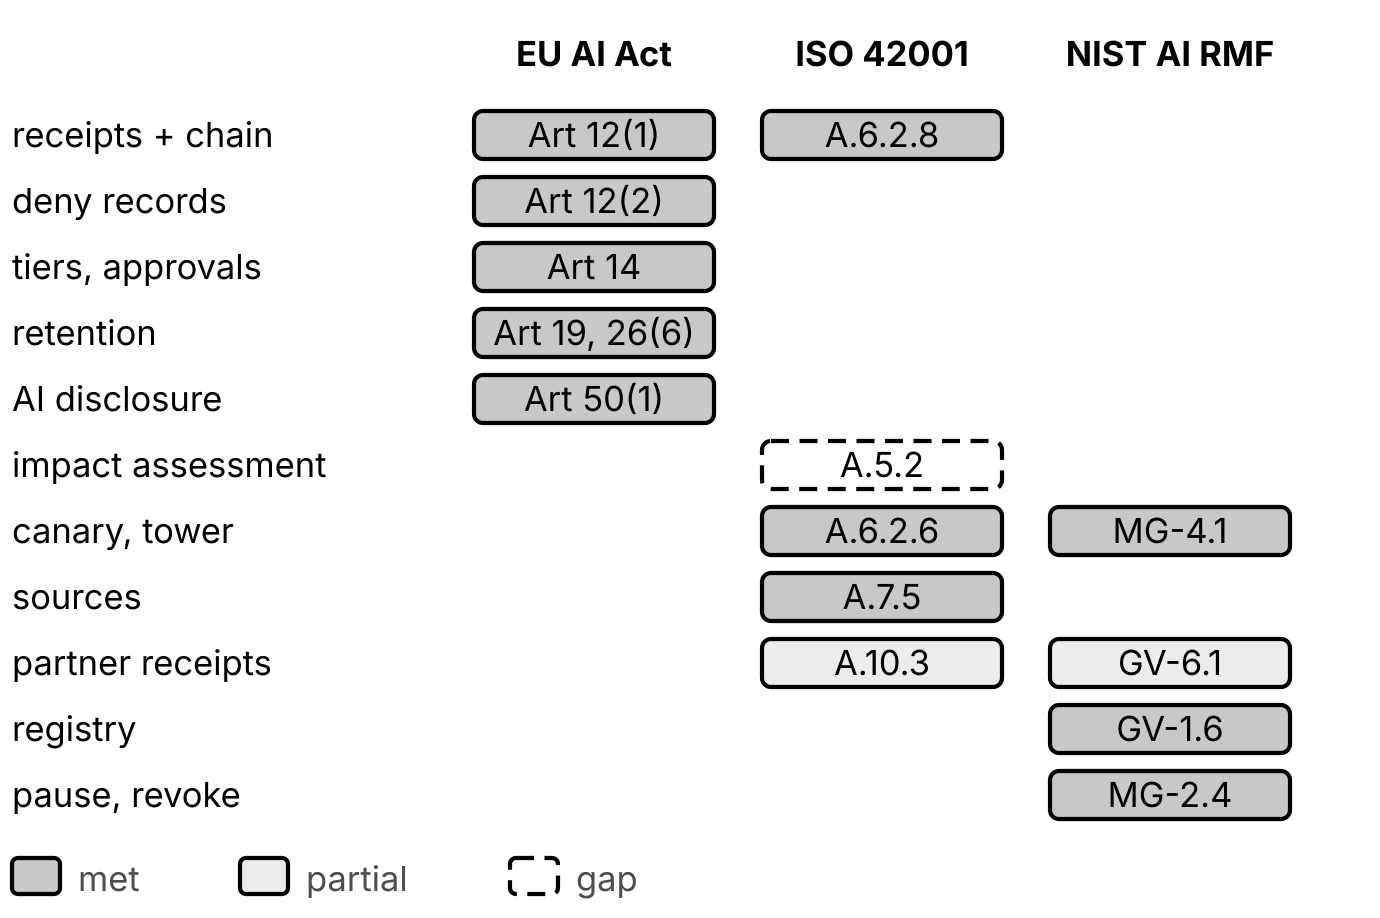
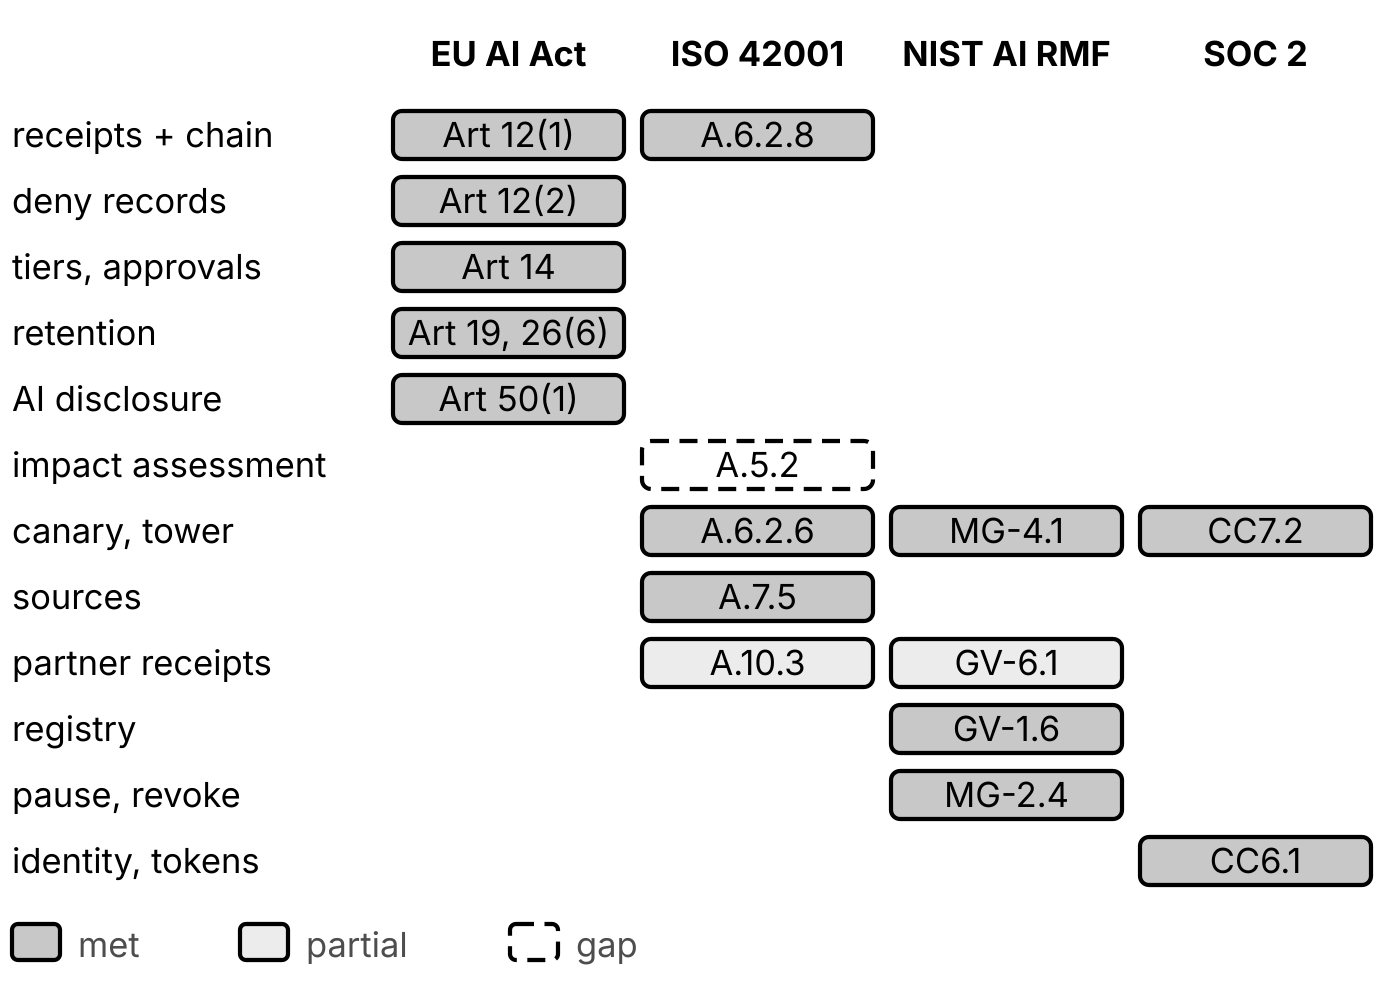
Ch31: add SOC 2 CC6.1/CC7.2 to the crosswalk, access check
Claude-Session: https://claude.ai/code/session_01Qwyvy13xxoKF4SgHTtLknm

diff --git a/agent-observability-book/figures/chapter31.py b/agent-observability-book/figures/chapter31.py
@@ -10,7 +10,7 @@ from figures.chapter02 import receipt_strip
 from figures.notation import FILL, MID, PALE, box, svg, text
 from comply.evidence import pack
 
-FWS = ["EU AI Act", "ISO 42001", "NIST AI RMF"]
+FWS = ["EU AI Act", "ISO 42001", "NIST AI RMF", "SOC 2"]
 NAMES = {
     "receipts": "receipts + chain",
     "denies": "deny records",
@@ -23,6 +23,7 @@ NAMES = {
     "third_party": "partner receipts",
     "inventory": "registry",
     "deactivate": "pause, revoke",
+    "access": "identity, tokens",
 }
 
 
@@ -30,7 +31,7 @@ def matrix():
     """Figure 31.2. Rows: evidence. Columns: frameworks."""
     rows = pack()
     checks = list(dict.fromkeys(r["check"] for r in rows))
-    x0, y0, cw, rh = 150, 34, 96, 22
+    x0, y0, cw, rh = 128, 34, 83, 22
     body = [
         text(
             x0 + i * cw + cw / 2,
@@ -60,9 +61,9 @@ def matrix():
             kind = "3P" if st == "gap" else None
             body.append(
                 box(
-                    x0 + i * cw + 8,
+                    x0 + i * cw + 3,
                     y + 3,
-                    cw - 16,
+                    cw - 6,
                     rh - 6,
                     fill=fill,
                     r=3,

diff --git a/agent-observability-book/tests/test_ch31_evidence.py b/agent-observability-book/tests/test_ch31_evidence.py
@@ -15,13 +15,13 @@ def rows():
 def test_every_requirement_has_a_check(rows):
     req = yaml.safe_load((HERE / "crosswalk.yaml").read_text())
     assert all(r["check"] in CHECKS for r in req)
-    assert len(rows) == len(req) == 14
+    assert len(rows) == len(req) == 16
 
 
 def test_counts(rows):
     s = [r["status"] for r in rows]
     assert (s.count("met"), s.count("partial"),
-            s.count("gap")) == (11, 2, 1)
+            s.count("gap")) == (13, 2, 1)
 
 
 def test_the_gap_is_the_impact_assessment(rows):
@@ -39,7 +39,8 @@ def test_one_check_serves_several_frameworks(rows):
     for r in rows:
         by.setdefault(r["check"], set()).add(r["fw"])
     assert by["receipts"] == {"EU AI Act", "ISO 42001"}
-    assert by["monitoring"] == {"ISO 42001", "NIST AI RMF"}
+    assert by["monitoring"] == {"ISO 42001", "NIST AI RMF",
+                                "SOC 2"}
 
 
 def test_tampered_receipt_fails_the_log_check(tmp_path):

diff --git a/agent-observability-book/comply/evidence.py b/agent-observability-book/comply/evidence.py
@@ -114,10 +114,23 @@ def deactivate():
     return ("met" if ok else "gap"), "pause, revoke tested"
 
 
+def access():
+    from identity import delegation as dg
+    from identity import workload as wl
+    svid, _ = wl.attest(wl.SPEEDY, dg.AS)
+    token, _ = dg.exchange(dg.login("cust_7f3a91"), svid,
+                           dg.ASK)
+    session = dg.login("cust_7f3a91")
+    passthrough = dg.check(session, "orders:read:own")
+    ok = token and passthrough == "wrong audience"
+    return ("met" if ok else "gap"), \
+        "own identity, 5-min tokens"
+
+
 CHECKS = {f.__name__: f for f in
           (receipts, denies, oversight, retention, disclosure,
            impact, monitoring, provenance, third_party,
-           inventory, deactivate)}
+           inventory, deactivate, access)}
 
 
 def pack():
